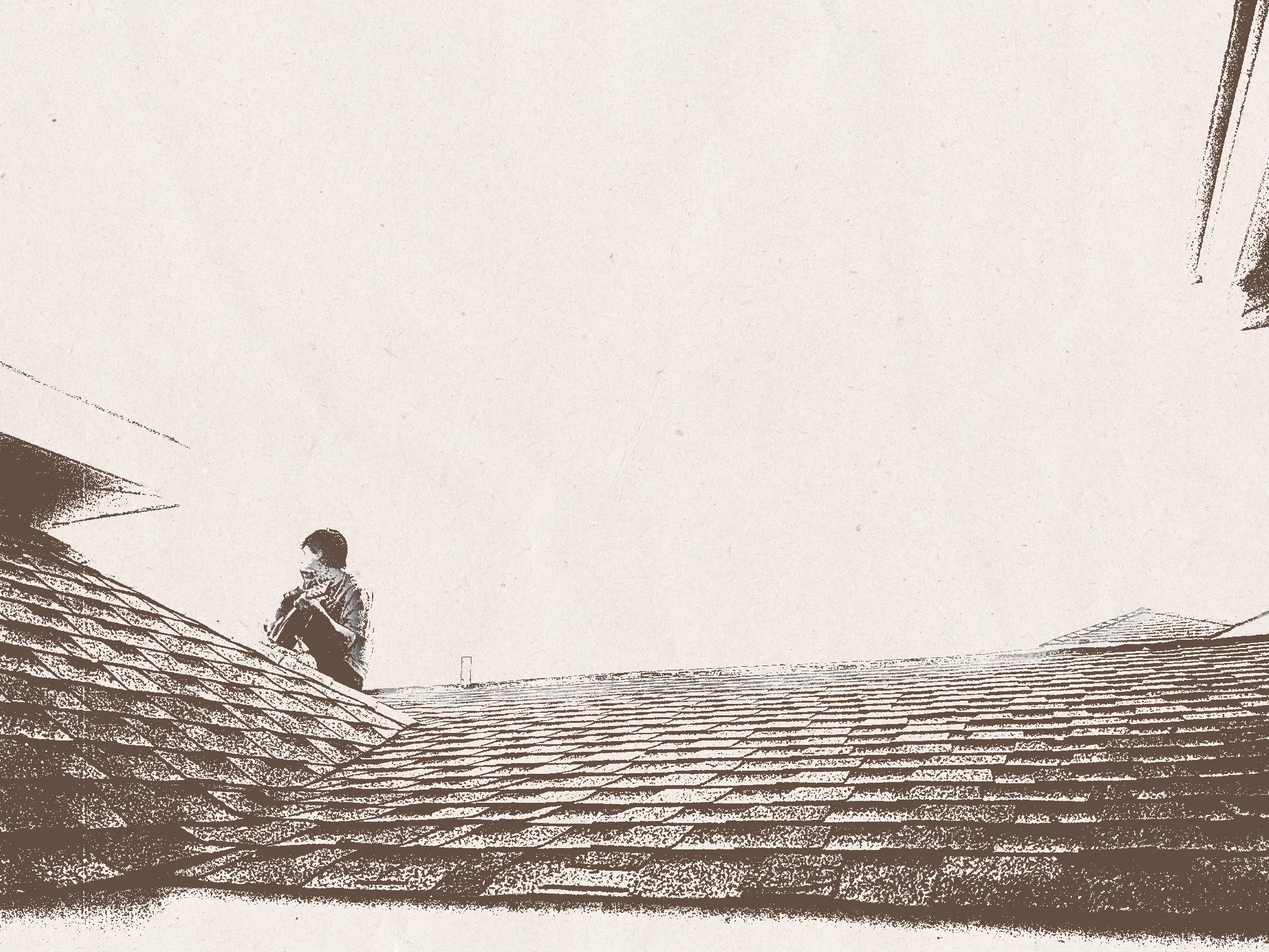
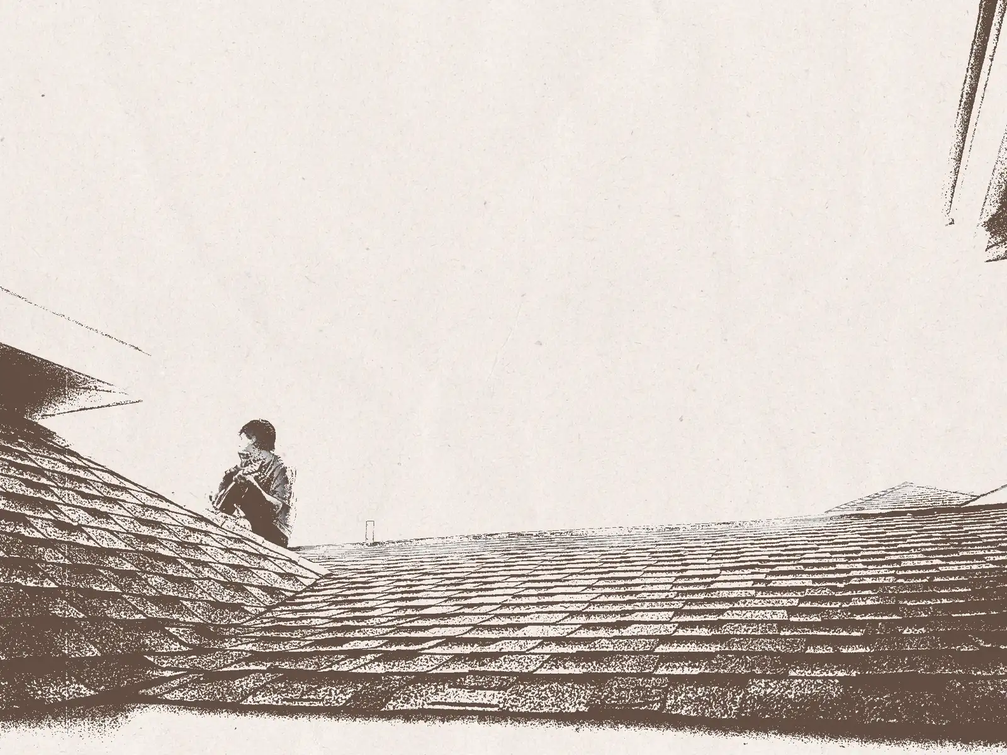
Optimize images as resized WebP
Claude-Session: https://claude.ai/code/session_01FbZWByT8CUePYQzUEF7K18

diff --git a/data/site.ts b/data/site.ts
@@ -70,44 +70,44 @@ export const releases = [
   {
     title: "(new!) IN DUE TIME",
     href: "https://ffm.to/cl-induetime",
-    cover: "/images/cover-in-due-time.png",
-    width: 1500,
-    height: 1500,
+    cover: "/images/cover-in-due-time.webp",
+    width: 800,
+    height: 800,
   },
   {
     title: "Miracles off exit 17 (ep)",
     href: "https://ffm.to/miraclesoffexit17",
-    cover: "/images/cover-miracles-off-exit-17.png",
-    width: 822,
-    height: 826,
+    cover: "/images/cover-miracles-off-exit-17.webp",
+    width: 800,
+    height: 804,
   },
   {
     title: "Beach fire embers",
     href: "https://ffm.to/beachfireembers",
-    cover: "/images/cover-beach-fire-embers.png",
-    width: 1220,
-    height: 1222,
+    cover: "/images/cover-beach-fire-embers.webp",
+    width: 800,
+    height: 801,
   },
   {
     title: "MARY JANE",
     href: "https://ffm.to/colinmaryjane",
-    cover: "/images/cover-mary-jane.png",
-    width: 1500,
-    height: 1500,
+    cover: "/images/cover-mary-jane.webp",
+    width: 800,
+    height: 800,
   },
   {
     title: "4th of July Darlin",
     href: "https://ffm.to/4th-of-july-darlin",
-    cover: "/images/cover-4th-of-july-darlin.jpg",
-    width: 1024,
-    height: 1024,
+    cover: "/images/cover-4th-of-july-darlin.webp",
+    width: 800,
+    height: 800,
   },
   {
     title: "aida's smile",
     href: "https://ffm.to/aidas-smile",
-    cover: "/images/cover-aidas-smile.jpg",
-    width: 1180,
-    height: 1180,
+    cover: "/images/cover-aidas-smile.webp",
+    width: 800,
+    height: 800,
   },
 ];
 
